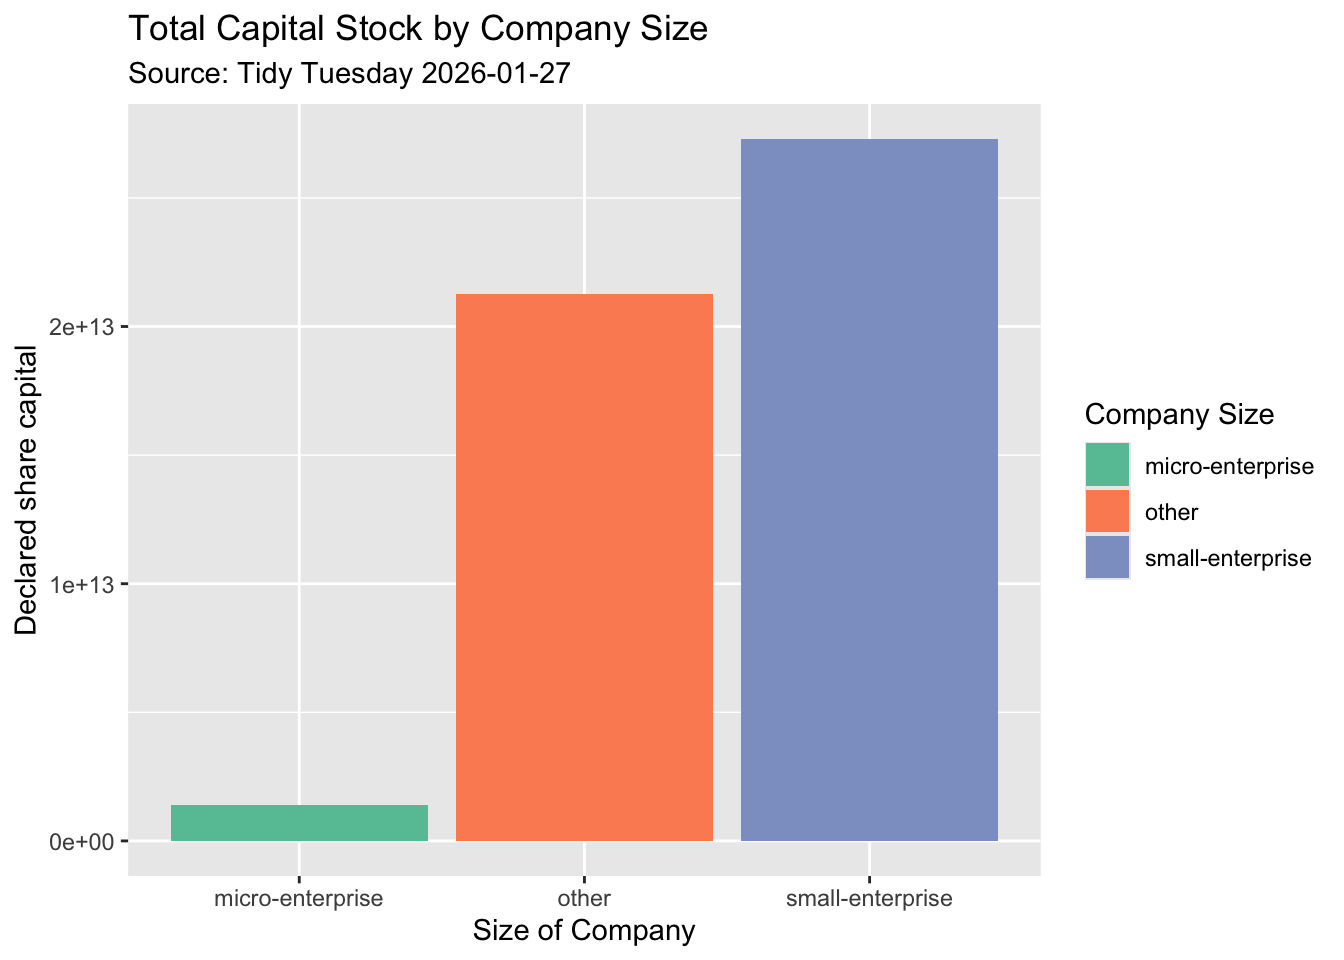
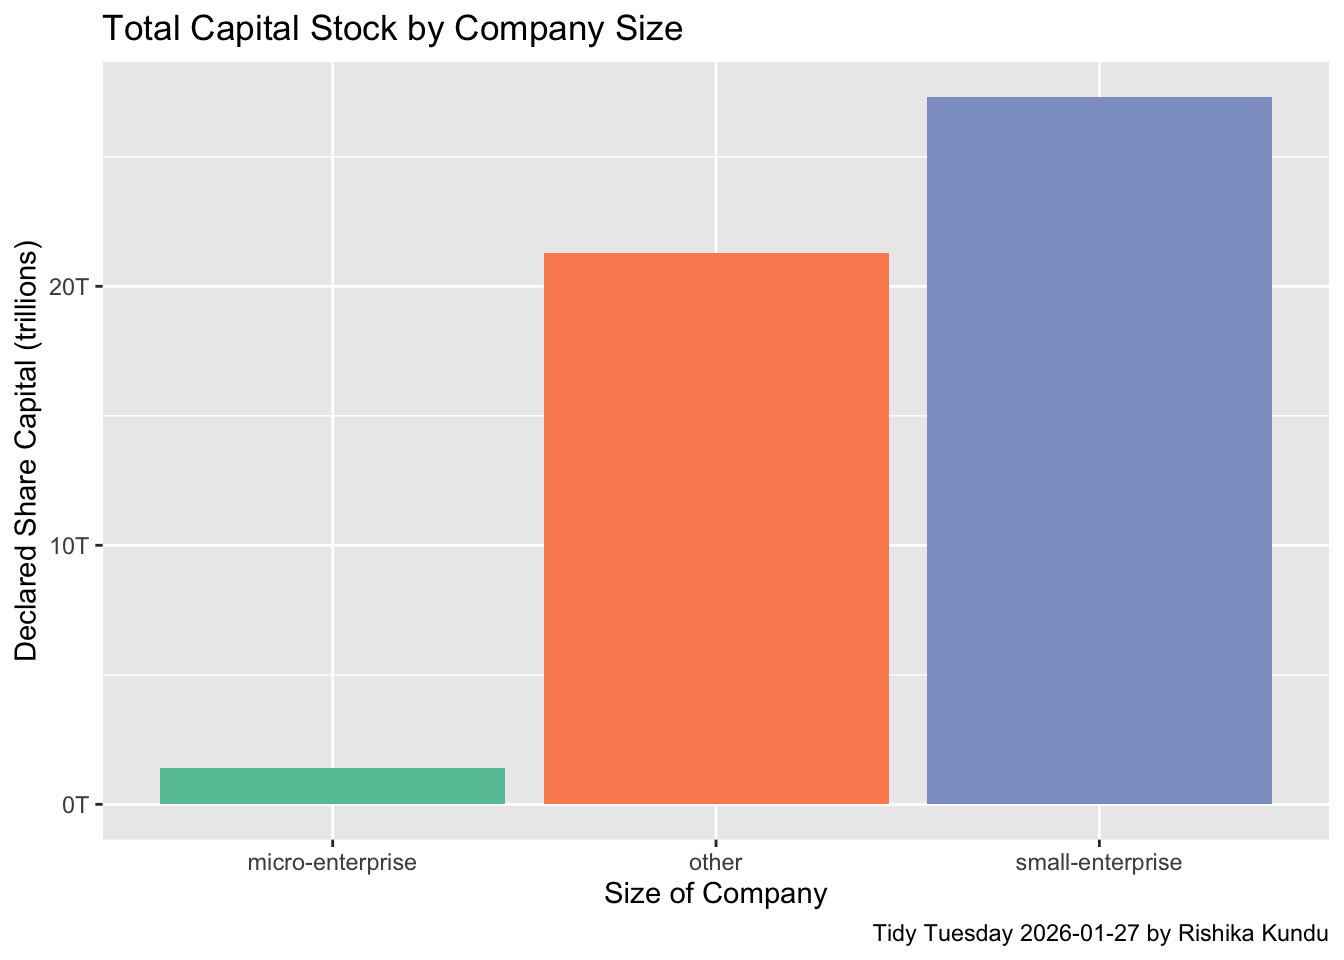
Built site for gh-pages

diff --git a/tt/2026-01-29.html b/tt/2026-01-29.html
@@ -297,13 +297,14 @@ cookieconsent.run({
   
 
 
-</header><p>How does the company size affect the stock of a company? distribution of stock across comnpany sizes</p>
+</header><p>How does total declared share capital stock vary by company size?</p>
 <div class="cell">
 <details class="code-fold"><summary>Code</summary><div class="sourceCode cell-code" id="cb1"><pre class="sourceCode numberSource r number-lines code-with-copy"><code class="sourceCode r"><span id="cb1-1"><a href="#cb1-1"></a><span class="fu">library</span>(tidyverse)</span>
-<span id="cb1-2"><a href="#cb1-2"></a>companies <span class="ot">&lt;-</span> readr<span class="sc">::</span><span class="fu">read_csv</span>(<span class="st">'https://raw.githubusercontent.com/rfordatascience/tidytuesday/main/data/2026/2026-01-27/companies.csv'</span>)</span>
-<span id="cb1-3"><a href="#cb1-3"></a>legal_nature <span class="ot">&lt;-</span> readr<span class="sc">::</span><span class="fu">read_csv</span>(<span class="st">'https://raw.githubusercontent.com/rfordatascience/tidytuesday/main/data/2026/2026-01-27/legal_nature.csv'</span>)</span>
-<span id="cb1-4"><a href="#cb1-4"></a>qualifications <span class="ot">&lt;-</span> readr<span class="sc">::</span><span class="fu">read_csv</span>(<span class="st">'https://raw.githubusercontent.com/rfordatascience/tidytuesday/main/data/2026/2026-01-27/qualifications.csv'</span>)</span>
-<span id="cb1-5"><a href="#cb1-5"></a>size <span class="ot">&lt;-</span> readr<span class="sc">::</span><span class="fu">read_csv</span>(<span class="st">'https://raw.githubusercontent.com/rfordatascience/tidytuesday/main/data/2026/2026-01-27/size.csv'</span>)</span></code><button title="Copy to Clipboard" class="code-copy-button"><i class="bi"></i></button></pre></div>
+<span id="cb1-2"><a href="#cb1-2"></a><span class="fu">library</span>(scales)</span>
+<span id="cb1-3"><a href="#cb1-3"></a>companies <span class="ot">&lt;-</span> readr<span class="sc">::</span><span class="fu">read_csv</span>(<span class="st">'https://raw.githubusercontent.com/rfordatascience/tidytuesday/main/data/2026/2026-01-27/companies.csv'</span>)</span>
+<span id="cb1-4"><a href="#cb1-4"></a>legal_nature <span class="ot">&lt;-</span> readr<span class="sc">::</span><span class="fu">read_csv</span>(<span class="st">'https://raw.githubusercontent.com/rfordatascience/tidytuesday/main/data/2026/2026-01-27/legal_nature.csv'</span>)</span>
+<span id="cb1-5"><a href="#cb1-5"></a>qualifications <span class="ot">&lt;-</span> readr<span class="sc">::</span><span class="fu">read_csv</span>(<span class="st">'https://raw.githubusercontent.com/rfordatascience/tidytuesday/main/data/2026/2026-01-27/qualifications.csv'</span>)</span>
+<span id="cb1-6"><a href="#cb1-6"></a>size <span class="ot">&lt;-</span> readr<span class="sc">::</span><span class="fu">read_csv</span>(<span class="st">'https://raw.githubusercontent.com/rfordatascience/tidytuesday/main/data/2026/2026-01-27/size.csv'</span>)</span></code><button title="Copy to Clipboard" class="code-copy-button"><i class="bi"></i></button></pre></div>
 </details>
 </div>
 <div class="cell">
@@ -334,38 +335,25 @@ cookieconsent.run({
 <span id="cb6-2"><a href="#cb6-2"></a>  <span class="fu">group_by</span>(company_size) <span class="sc">|&gt;</span></span>
 <span id="cb6-3"><a href="#cb6-3"></a>  <span class="fu">summarise</span>(</span>
 <span id="cb6-4"><a href="#cb6-4"></a>    <span class="at">capital_stock_by_company =</span> <span class="fu">sum</span>(capital_stock)</span>
-<span id="cb6-5"><a href="#cb6-5"></a>  )</span>
-<span id="cb6-6"><a href="#cb6-6"></a></span>
-<span id="cb6-7"><a href="#cb6-7"></a>stock_data</span></code><button title="Copy to Clipboard" class="code-copy-button"><i class="bi"></i></button></pre></div>
-</details><div class="cell-output cell-output-stdout">
-<pre><code># A tibble: 3 × 2
-  company_size     capital_stock_by_company
-  &lt;chr&gt;                               &lt;dbl&gt;
-1 micro-enterprise                  1.41e12
-2 other                             2.13e13
-3 small-enterprise                  2.73e13</code></pre>
+<span id="cb6-5"><a href="#cb6-5"></a>  )</span></code><button title="Copy to Clipboard" class="code-copy-button"><i class="bi"></i></button></pre></div>
+</details>
 </div>
-</div>
-<p>Look at the distributon of stock, look at the distribution across companies</p>
 <div class="cell">
-<details class="code-fold"><summary>Code</summary><div class="sourceCode cell-code" id="cb8"><pre class="sourceCode numberSource r number-lines code-with-copy"><code class="sourceCode r"><span id="cb8-1"><a href="#cb8-1"></a><span class="fu">ggplot</span>(stock_data, <span class="fu">aes</span>(<span class="at">x =</span> company_size, <span class="at">y =</span> capital_stock_by_company, <span class="at">fill =</span> company_size))<span class="sc">+</span> <span class="fu">geom_col</span>() <span class="sc">+</span> <span class="fu">scale_fill_brewer</span>(<span class="at">palette =</span> <span class="st">"Set2"</span>) <span class="sc">+</span></span>
-<span id="cb8-2"><a href="#cb8-2"></a>  <span class="fu">labs</span>(</span>
-<span id="cb8-3"><a href="#cb8-3"></a>    <span class="at">title =</span> <span class="st">"Total Capital Stock by Company Size "</span>,</span>
-<span id="cb8-4"><a href="#cb8-4"></a>    <span class="at">subtitle =</span> <span class="st">"Source: Tidy Tuesday 2026-01-27"</span>,</span>
-<span id="cb8-5"><a href="#cb8-5"></a>    <span class="at">x =</span> <span class="st">"Size of Company"</span>, <span class="at">y =</span> <span class="st">"Declared share capital"</span>,</span>
-<span id="cb8-6"><a href="#cb8-6"></a>    <span class="at">fill =</span> <span class="st">"Company Size"</span></span>
-<span id="cb8-7"><a href="#cb8-7"></a>  ) </span></code><button title="Copy to Clipboard" class="code-copy-button"><i class="bi"></i></button></pre></div>
+<details class="code-fold"><summary>Code</summary><div class="sourceCode cell-code" id="cb7"><pre class="sourceCode numberSource r number-lines code-with-copy"><code class="sourceCode r"><span id="cb7-1"><a href="#cb7-1"></a><span class="fu">ggplot</span>(stock_data, <span class="fu">aes</span>(<span class="at">x =</span> company_size, <span class="at">y =</span> capital_stock_by_company, <span class="at">fill =</span> company_size))<span class="sc">+</span> <span class="fu">geom_col</span>() <span class="sc">+</span> <span class="fu">scale_fill_brewer</span>(<span class="at">palette =</span> <span class="st">"Set2"</span>) <span class="sc">+</span></span>
+<span id="cb7-2"><a href="#cb7-2"></a>  <span class="fu">labs</span>(</span>
+<span id="cb7-3"><a href="#cb7-3"></a>    <span class="at">title =</span> <span class="st">"Total Capital Stock by Company Size "</span>,</span>
+<span id="cb7-4"><a href="#cb7-4"></a>    <span class="at">caption =</span> <span class="st">"Tidy Tuesday 2026-01-27 by Rishika Kundu"</span>,</span>
+<span id="cb7-5"><a href="#cb7-5"></a>    <span class="at">x =</span> <span class="st">"Size of Company"</span>, <span class="at">y =</span> <span class="st">"Declared Share Capital (trillions)"</span>,</span>
+<span id="cb7-6"><a href="#cb7-6"></a>    <span class="at">fill =</span> <span class="st">"Company Size"</span></span>
+<span id="cb7-7"><a href="#cb7-7"></a>  ) <span class="sc">+</span> <span class="fu">scale_y_continuous</span>(<span class="at">labels =</span> <span class="fu">label_number</span>(<span class="at">scale =</span> <span class="fl">1e-12</span>, <span class="at">suffix =</span> <span class="st">"T"</span>)) <span class="sc">+</span> <span class="fu">theme</span>(<span class="at">legend.position =</span> <span class="st">"none"</span>)</span></code><button title="Copy to Clipboard" class="code-copy-button"><i class="bi"></i></button></pre></div>
 </details><div class="cell-output-display">
 <div>
 <figure class="figure"><p><img src="2026-01-29_files/figure-html/unnamed-chunk-4-1.png" class="img-fluid figure-img" width="672"></p>
 </figure>
 </div>
 </div>
-<details class="code-fold"><summary>Code</summary><div class="sourceCode cell-code" id="cb9"><pre class="sourceCode numberSource r number-lines code-with-copy"><code class="sourceCode r"><span id="cb9-1"><a href="#cb9-1"></a><span class="do">## remove the legend </span></span>
-<span id="cb9-2"><a href="#cb9-2"></a><span class="do">## not subtitle, move caption to the bottom , labs layer, subtitle summarize the findings </span></span>
-<span id="cb9-3"><a href="#cb9-3"></a><span class="do">## add a sentence sumamrising whats going on </span></span></code><button title="Copy to Clipboard" class="code-copy-button"><i class="bi"></i></button></pre></div>
-</details>
 </div>
+<p>Small enterprises hold the largest share of declared capital, followed by other firms, while micro enterprises hold substantially less.</p>
 
 
 <!-- -->
@@ -998,58 +986,53 @@ window.document.addEventListener("DOMContentLoaded", function (event) {
       </a>
   </div>
 </nav><div class="modal fade" id="quarto-embedded-source-code-modal" tabindex="-1" aria-labelledby="quarto-embedded-source-code-modal-label" aria-hidden="true"><div class="modal-dialog modal-dialog-scrollable"><div class="modal-content"><div class="modal-header"><h5 class="modal-title" id="quarto-embedded-source-code-modal-label">Source Code</h5><button class="btn-close" data-bs-dismiss="modal"></button></div><div class="modal-body"><div class="">
-<div class="sourceCode" id="cb10" data-shortcodes="false"><pre class="sourceCode numberSource markdown number-lines code-with-copy"><code class="sourceCode markdown"><span id="cb10-1"><a href="#cb10-1"></a><span class="co">---</span></span>
-<span id="cb10-2"><a href="#cb10-2"></a><span class="an">title:</span><span class="co"> "HW1"</span></span>
-<span id="cb10-3"><a href="#cb10-3"></a><span class="an">author:</span><span class="co"> "Rishika Kundu"</span></span>
-<span id="cb10-4"><a href="#cb10-4"></a><span class="an">date:</span><span class="co"> "2026-01-30"</span></span>
-<span id="cb10-5"><a href="#cb10-5"></a><span class="an">output:</span><span class="co"> html_document</span></span>
-<span id="cb10-6"><a href="#cb10-6"></a><span class="co">---</span></span>
-<span id="cb10-7"><a href="#cb10-7"></a></span>
-<span id="cb10-8"><a href="#cb10-8"></a><span class="in">```{r setup, include=FALSE}</span></span>
-<span id="cb10-9"><a href="#cb10-9"></a><span class="in">knitr::opts_chunk$set(echo = TRUE)</span></span>
-<span id="cb10-10"><a href="#cb10-10"></a><span class="in">```</span></span>
-<span id="cb10-11"><a href="#cb10-11"></a></span>
-<span id="cb10-12"><a href="#cb10-12"></a>How does the company size affect the stock of a company?</span>
-<span id="cb10-13"><a href="#cb10-13"></a>distribution of stock across comnpany sizes </span>
-<span id="cb10-14"><a href="#cb10-14"></a></span>
-<span id="cb10-17"><a href="#cb10-17"></a><span class="in">```{r}</span></span>
-<span id="cb10-18"><a href="#cb10-18"></a><span class="fu">library</span>(tidyverse)</span>
-<span id="cb10-19"><a href="#cb10-19"></a>companies <span class="ot">&lt;-</span> readr<span class="sc">::</span><span class="fu">read_csv</span>(<span class="st">'https://raw.githubusercontent.com/rfordatascience/tidytuesday/main/data/2026/2026-01-27/companies.csv'</span>)</span>
-<span id="cb10-20"><a href="#cb10-20"></a>legal_nature <span class="ot">&lt;-</span> readr<span class="sc">::</span><span class="fu">read_csv</span>(<span class="st">'https://raw.githubusercontent.com/rfordatascience/tidytuesday/main/data/2026/2026-01-27/legal_nature.csv'</span>)</span>
-<span id="cb10-21"><a href="#cb10-21"></a>qualifications <span class="ot">&lt;-</span> readr<span class="sc">::</span><span class="fu">read_csv</span>(<span class="st">'https://raw.githubusercontent.com/rfordatascience/tidytuesday/main/data/2026/2026-01-27/qualifications.csv'</span>)</span>
-<span id="cb10-22"><a href="#cb10-22"></a>size <span class="ot">&lt;-</span> readr<span class="sc">::</span><span class="fu">read_csv</span>(<span class="st">'https://raw.githubusercontent.com/rfordatascience/tidytuesday/main/data/2026/2026-01-27/size.csv'</span>)</span>
-<span id="cb10-23"><a href="#cb10-23"></a><span class="in">```</span></span>
-<span id="cb10-26"><a href="#cb10-26"></a><span class="in">```{r}</span></span>
-<span id="cb10-27"><a href="#cb10-27"></a><span class="fu">head</span>(companies, <span class="dv">10</span>)</span>
-<span id="cb10-28"><a href="#cb10-28"></a><span class="fu">unique</span>(companies<span class="sc">$</span>company_size)</span>
-<span id="cb10-29"><a href="#cb10-29"></a><span class="in">```</span></span>
-<span id="cb10-32"><a href="#cb10-32"></a><span class="in">```{r}</span></span>
-<span id="cb10-33"><a href="#cb10-33"></a>stock_data <span class="ot">&lt;-</span> companies <span class="sc">|&gt;</span></span>
-<span id="cb10-34"><a href="#cb10-34"></a>  <span class="fu">group_by</span>(company_size) <span class="sc">|&gt;</span></span>
-<span id="cb10-35"><a href="#cb10-35"></a>  <span class="fu">summarise</span>(</span>
-<span id="cb10-36"><a href="#cb10-36"></a>    <span class="at">capital_stock_by_company =</span> <span class="fu">sum</span>(capital_stock)</span>
-<span id="cb10-37"><a href="#cb10-37"></a>  )</span>
-<span id="cb10-38"><a href="#cb10-38"></a></span>
-<span id="cb10-39"><a href="#cb10-39"></a>stock_data</span>
-<span id="cb10-40"><a href="#cb10-40"></a><span class="in">```</span></span>
-<span id="cb10-41"><a href="#cb10-41"></a></span>
-<span id="cb10-42"><a href="#cb10-42"></a>Look at the distributon of stock, look at the distribution across companies </span>
-<span id="cb10-43"><a href="#cb10-43"></a></span>
-<span id="cb10-44"><a href="#cb10-44"></a></span>
-<span id="cb10-47"><a href="#cb10-47"></a><span class="in">```{r}</span></span>
-<span id="cb10-48"><a href="#cb10-48"></a><span class="fu">ggplot</span>(stock_data, <span class="fu">aes</span>(<span class="at">x =</span> company_size, <span class="at">y =</span> capital_stock_by_company, <span class="at">fill =</span> company_size))<span class="sc">+</span> <span class="fu">geom_col</span>() <span class="sc">+</span> <span class="fu">scale_fill_brewer</span>(<span class="at">palette =</span> <span class="st">"Set2"</span>) <span class="sc">+</span></span>
-<span id="cb10-49"><a href="#cb10-49"></a>  <span class="fu">labs</span>(</span>
-<span id="cb10-50"><a href="#cb10-50"></a>    <span class="at">title =</span> <span class="st">"Total Capital Stock by Company Size "</span>,</span>
-<span id="cb10-51"><a href="#cb10-51"></a>    <span class="at">subtitle =</span> <span class="st">"Source: Tidy Tuesday 2026-01-27"</span>,</span>
-<span id="cb10-52"><a href="#cb10-52"></a>    <span class="at">x =</span> <span class="st">"Size of Company"</span>, <span class="at">y =</span> <span class="st">"Declared share capital"</span>,</span>
-<span id="cb10-53"><a href="#cb10-53"></a>    <span class="at">fill =</span> <span class="st">"Company Size"</span></span>
-<span id="cb10-54"><a href="#cb10-54"></a>  ) </span>
-<span id="cb10-55"><a href="#cb10-55"></a></span>
-<span id="cb10-56"><a href="#cb10-56"></a><span class="do">## remove the legend </span></span>
-<span id="cb10-57"><a href="#cb10-57"></a><span class="do">## not subtitle, move caption to the bottom , labs layer, subtitle summarize the findings </span></span>
-<span id="cb10-58"><a href="#cb10-58"></a><span class="do">## add a sentence sumamrising whats going on </span></span>
-<span id="cb10-59"><a href="#cb10-59"></a></span>
-<span id="cb10-60"><a href="#cb10-60"></a><span class="in">```</span></span>
+<div class="sourceCode" id="cb8" data-shortcodes="false"><pre class="sourceCode numberSource markdown number-lines code-with-copy"><code class="sourceCode markdown"><span id="cb8-1"><a href="#cb8-1"></a><span class="co">---</span></span>
+<span id="cb8-2"><a href="#cb8-2"></a><span class="an">title:</span><span class="co"> "HW1"</span></span>
+<span id="cb8-3"><a href="#cb8-3"></a><span class="an">author:</span><span class="co"> "Rishika Kundu"</span></span>
+<span id="cb8-4"><a href="#cb8-4"></a><span class="an">date:</span><span class="co"> "2026-01-30"</span></span>
+<span id="cb8-5"><a href="#cb8-5"></a><span class="an">output:</span><span class="co"> html_document</span></span>
+<span id="cb8-6"><a href="#cb8-6"></a><span class="co">---</span></span>
+<span id="cb8-7"><a href="#cb8-7"></a></span>
+<span id="cb8-8"><a href="#cb8-8"></a><span class="in">```{r setup, include=FALSE}</span></span>
+<span id="cb8-9"><a href="#cb8-9"></a><span class="in">knitr::opts_chunk$set(echo = TRUE)</span></span>
+<span id="cb8-10"><a href="#cb8-10"></a><span class="in">```</span></span>
+<span id="cb8-11"><a href="#cb8-11"></a></span>
+<span id="cb8-12"><a href="#cb8-12"></a>How does total declared share capital stock vary by company size? </span>
+<span id="cb8-13"><a href="#cb8-13"></a></span>
+<span id="cb8-16"><a href="#cb8-16"></a><span class="in">```{r}</span></span>
+<span id="cb8-17"><a href="#cb8-17"></a><span class="fu">library</span>(tidyverse)</span>
+<span id="cb8-18"><a href="#cb8-18"></a><span class="fu">library</span>(scales)</span>
+<span id="cb8-19"><a href="#cb8-19"></a>companies <span class="ot">&lt;-</span> readr<span class="sc">::</span><span class="fu">read_csv</span>(<span class="st">'https://raw.githubusercontent.com/rfordatascience/tidytuesday/main/data/2026/2026-01-27/companies.csv'</span>)</span>
+<span id="cb8-20"><a href="#cb8-20"></a>legal_nature <span class="ot">&lt;-</span> readr<span class="sc">::</span><span class="fu">read_csv</span>(<span class="st">'https://raw.githubusercontent.com/rfordatascience/tidytuesday/main/data/2026/2026-01-27/legal_nature.csv'</span>)</span>
+<span id="cb8-21"><a href="#cb8-21"></a>qualifications <span class="ot">&lt;-</span> readr<span class="sc">::</span><span class="fu">read_csv</span>(<span class="st">'https://raw.githubusercontent.com/rfordatascience/tidytuesday/main/data/2026/2026-01-27/qualifications.csv'</span>)</span>
+<span id="cb8-22"><a href="#cb8-22"></a>size <span class="ot">&lt;-</span> readr<span class="sc">::</span><span class="fu">read_csv</span>(<span class="st">'https://raw.githubusercontent.com/rfordatascience/tidytuesday/main/data/2026/2026-01-27/size.csv'</span>)</span>
+<span id="cb8-23"><a href="#cb8-23"></a><span class="in">```</span></span>
+<span id="cb8-26"><a href="#cb8-26"></a><span class="in">```{r}</span></span>
+<span id="cb8-27"><a href="#cb8-27"></a><span class="fu">head</span>(companies, <span class="dv">10</span>)</span>
+<span id="cb8-28"><a href="#cb8-28"></a><span class="fu">unique</span>(companies<span class="sc">$</span>company_size)</span>
+<span id="cb8-29"><a href="#cb8-29"></a><span class="in">```</span></span>
+<span id="cb8-32"><a href="#cb8-32"></a><span class="in">```{r}</span></span>
+<span id="cb8-33"><a href="#cb8-33"></a>stock_data <span class="ot">&lt;-</span> companies <span class="sc">|&gt;</span></span>
+<span id="cb8-34"><a href="#cb8-34"></a>  <span class="fu">group_by</span>(company_size) <span class="sc">|&gt;</span></span>
+<span id="cb8-35"><a href="#cb8-35"></a>  <span class="fu">summarise</span>(</span>
+<span id="cb8-36"><a href="#cb8-36"></a>    <span class="at">capital_stock_by_company =</span> <span class="fu">sum</span>(capital_stock)</span>
+<span id="cb8-37"><a href="#cb8-37"></a>  )</span>
+<span id="cb8-38"><a href="#cb8-38"></a><span class="in">```</span></span>
+<span id="cb8-39"><a href="#cb8-39"></a></span>
+<span id="cb8-40"><a href="#cb8-40"></a></span>
+<span id="cb8-41"><a href="#cb8-41"></a></span>
+<span id="cb8-44"><a href="#cb8-44"></a><span class="in">```{r}</span></span>
+<span id="cb8-45"><a href="#cb8-45"></a><span class="fu">ggplot</span>(stock_data, <span class="fu">aes</span>(<span class="at">x =</span> company_size, <span class="at">y =</span> capital_stock_by_company, <span class="at">fill =</span> company_size))<span class="sc">+</span> <span class="fu">geom_col</span>() <span class="sc">+</span> <span class="fu">scale_fill_brewer</span>(<span class="at">palette =</span> <span class="st">"Set2"</span>) <span class="sc">+</span></span>
+<span id="cb8-46"><a href="#cb8-46"></a>  <span class="fu">labs</span>(</span>
+<span id="cb8-47"><a href="#cb8-47"></a>    <span class="at">title =</span> <span class="st">"Total Capital Stock by Company Size "</span>,</span>
+<span id="cb8-48"><a href="#cb8-48"></a>    <span class="at">caption =</span> <span class="st">"Tidy Tuesday 2026-01-27 by Rishika Kundu"</span>,</span>
+<span id="cb8-49"><a href="#cb8-49"></a>    <span class="at">x =</span> <span class="st">"Size of Company"</span>, <span class="at">y =</span> <span class="st">"Declared Share Capital (trillions)"</span>,</span>
+<span id="cb8-50"><a href="#cb8-50"></a>    <span class="at">fill =</span> <span class="st">"Company Size"</span></span>
+<span id="cb8-51"><a href="#cb8-51"></a>  ) <span class="sc">+</span> <span class="fu">scale_y_continuous</span>(<span class="at">labels =</span> <span class="fu">label_number</span>(<span class="at">scale =</span> <span class="fl">1e-12</span>, <span class="at">suffix =</span> <span class="st">"T"</span>)) <span class="sc">+</span> <span class="fu">theme</span>(<span class="at">legend.position =</span> <span class="st">"none"</span>)</span>
+<span id="cb8-52"><a href="#cb8-52"></a></span>
+<span id="cb8-53"><a href="#cb8-53"></a><span class="in">```</span></span>
+<span id="cb8-54"><a href="#cb8-54"></a></span>
+<span id="cb8-55"><a href="#cb8-55"></a>Small enterprises hold the largest share of declared capital, followed by other firms, while micro enterprises hold substantially less.</span>
 </code><button title="Copy to Clipboard" class="code-copy-button" data-in-quarto-modal=""><i class="bi"></i></button></pre></div>
 </div></div></div></div></div>
 </div> <!-- /content -->

diff --git a/index.html b/index.html
@@ -300,8 +300,8 @@ cookieconsent.run({
 </header><p>Welcome to my online portfolio for COMP/STAT112 course taken at <a href="https://www.macalester.edu/">Macalester College</a>. Please, use the side bar on the left for navigation.</p>
 <div class="cell">
 <div class="cell-output-display">
-<div class="wordcloud2 html-widget html-fill-item" id="htmlwidget-bfb271491c8ce0cfd487" style="width:100%;height:464px;"></div>
-<script type="application/json" data-for="htmlwidget-bfb271491c8ce0cfd487">{"x":{"word":["welcome","to","comp","stat","212","mac","st paul"],"freq":[10,2,8,8,8,6,6],"fontFamily":"Segoe UI","fontWeight":"bold","color":"random-dark","minSize":0,"weightFactor":18,"backgroundColor":"white","gridSize":0,"minRotation":-0.7853981633974483,"maxRotation":0.7853981633974483,"shuffle":true,"rotateRatio":0.4,"shape":"cardioid","ellipticity":0.65,"figBase64":null,"hover":null},"evals":[],"jsHooks":{"render":[{"code":"function(el,x){\n                        console.log(123);\n                        if(!iii){\n                          window.location.reload();\n                          iii = False;\n\n                        }\n  }","data":null}]}}</script>
+<div class="wordcloud2 html-widget html-fill-item" id="htmlwidget-2ed04888411901b95479" style="width:100%;height:464px;"></div>
+<script type="application/json" data-for="htmlwidget-2ed04888411901b95479">{"x":{"word":["welcome","to","comp","stat","212","mac","st paul"],"freq":[10,2,8,8,8,6,6],"fontFamily":"Segoe UI","fontWeight":"bold","color":"random-dark","minSize":0,"weightFactor":18,"backgroundColor":"white","gridSize":0,"minRotation":-0.7853981633974483,"maxRotation":0.7853981633974483,"shuffle":true,"rotateRatio":0.4,"shape":"cardioid","ellipticity":0.65,"figBase64":null,"hover":null},"evals":[],"jsHooks":{"render":[{"code":"function(el,x){\n                        console.log(123);\n                        if(!iii){\n                          window.location.reload();\n                          iii = False;\n\n                        }\n  }","data":null}]}}</script>
 </div>
 </div>
 

diff --git a/404.html b/404.html
@@ -7,7 +7,7 @@
 <meta name="viewport" content="width=device-width, initial-scale=1.0, user-scalable=yes">
 
 
-<title>quarto-inputb944f55cbbb87d2c – COMP/STAT212 Portfolio</title>
+<title>quarto-input5456ec31884d959a – COMP/STAT212 Portfolio</title>
 <style>
 code{white-space: pre-wrap;}
 span.smallcaps{font-variant: small-caps;}
